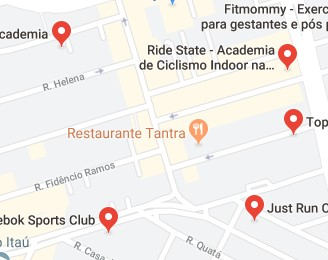
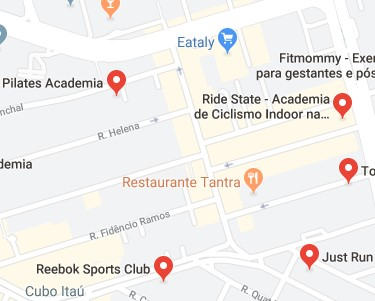
academia

diff --git a/academia.html b/academia.html
@@ -6,7 +6,9 @@
 	<title>FitLife</title>
 	<link rel="stylesheet" type="text/css" href="assets/css/reset.css">
 	<link rel="stylesheet" type="text/css" href="assets/css/style.css">
-	
+	<link href="https://fonts.googleapis.com/css?family=Zilla+Slab|ABeeZee=swap" rel="stylesheet">
+	<link rel="stylesheet" href="https://cdnjs.cloudflare.com/ajax/libs/font-awesome/4.7.0/css/font-awesome.min.css">
+
 	<meta charset="utf-8">
 	<meta name='viewport' content="width=device-width, initial-scale=1" >
 
@@ -21,7 +23,45 @@
 	</header>
 	<main class="acad">
 		<img class="nearme"src="assets/img/mapa.jpg"  alt="mapa">
-
+	<div class="academias">
+		<p>Reebok Sports Club</p>
+		
+	<span class="fa fa-star checked"></span>
+	<span class="fa fa-star checked"></span>
+	<span class="fa fa-star checked"></span>
+	<span class="fa fa-star checked"></span>
+	<span class="fa fa-star"></span>
+	<br>
+	<p>R. Olimpíadas, 205 - Vila Olímpia, São Paulo - SP, 04551-000</p>
+	<p>Distância:Próxima</p>
+	<br>
+	</div>
+	<div class="academias">
+			<p>Ride State</p>
+		
+		<span class="fa fa-star checked"></span>
+		<span class="fa fa-star checked"></span>
+		<span class="fa fa-star checked"></span>
+		<span class="fa fa-star "></span>
+		<span class="fa fa-star"></span>
+		<br>
+	<p>	R. Cel. Joaquim Ferreira Lôbo, 152 - Vila Olímpia, São Paulo - SP, 04544-150
+		</p>
+		<p>Distância:Média</p>
+		</div>
+		<div class="academias">
+				<p>Just Run</p>
+			
+			<span class="fa fa-star checked"></span>
+			<span class="fa fa-star checked"></span>
+			<span class="fa fa-star checked"></span>
+			<span class="fa fa-star checked"></span>
+			<span class="fa fa-star checked"></span>
+			<br>
+		<p>Rua Fiandeiras, 837 - Itaim Bibi, São Paulo - SP, 04545-006
+			</p>
+			<p>Distância:Longe</p>
+			</div>
 
 	</main>
 	<footer class="footer">

diff --git a/assets/css/style.css b/assets/css/style.css
@@ -71,13 +71,11 @@
 		align-content:space-around;
 		border:solid;
 		border-color:#838a9e;
-		border-width:4px;
-		border-radius:15px;
-		margin:2px 5px 5px 5px;
+		border-width:1px;
+		border-style: none none solid none;
+		margin:2px 0px 5px 0px;
 		
-			
-		
-	}
+			}
 
 	.face{
 		justify-content:left;
@@ -105,5 +103,17 @@
 	}
 	.nearme{
 		width:375px;
-		height:	400px;
+		height:	300px;
 	}
+	.academias{
+	font-family:'ABeeZee',sans-serif;
+	margin-top:3px;
+	margin-left:8px;
+	border-color:#10d1e6;
+	border-width:1px;
+	border-style: none none solid none;
+	margin:2px 0px 5px 0px;
+	}
+	.checked {
+		color: orange;
+	  }
